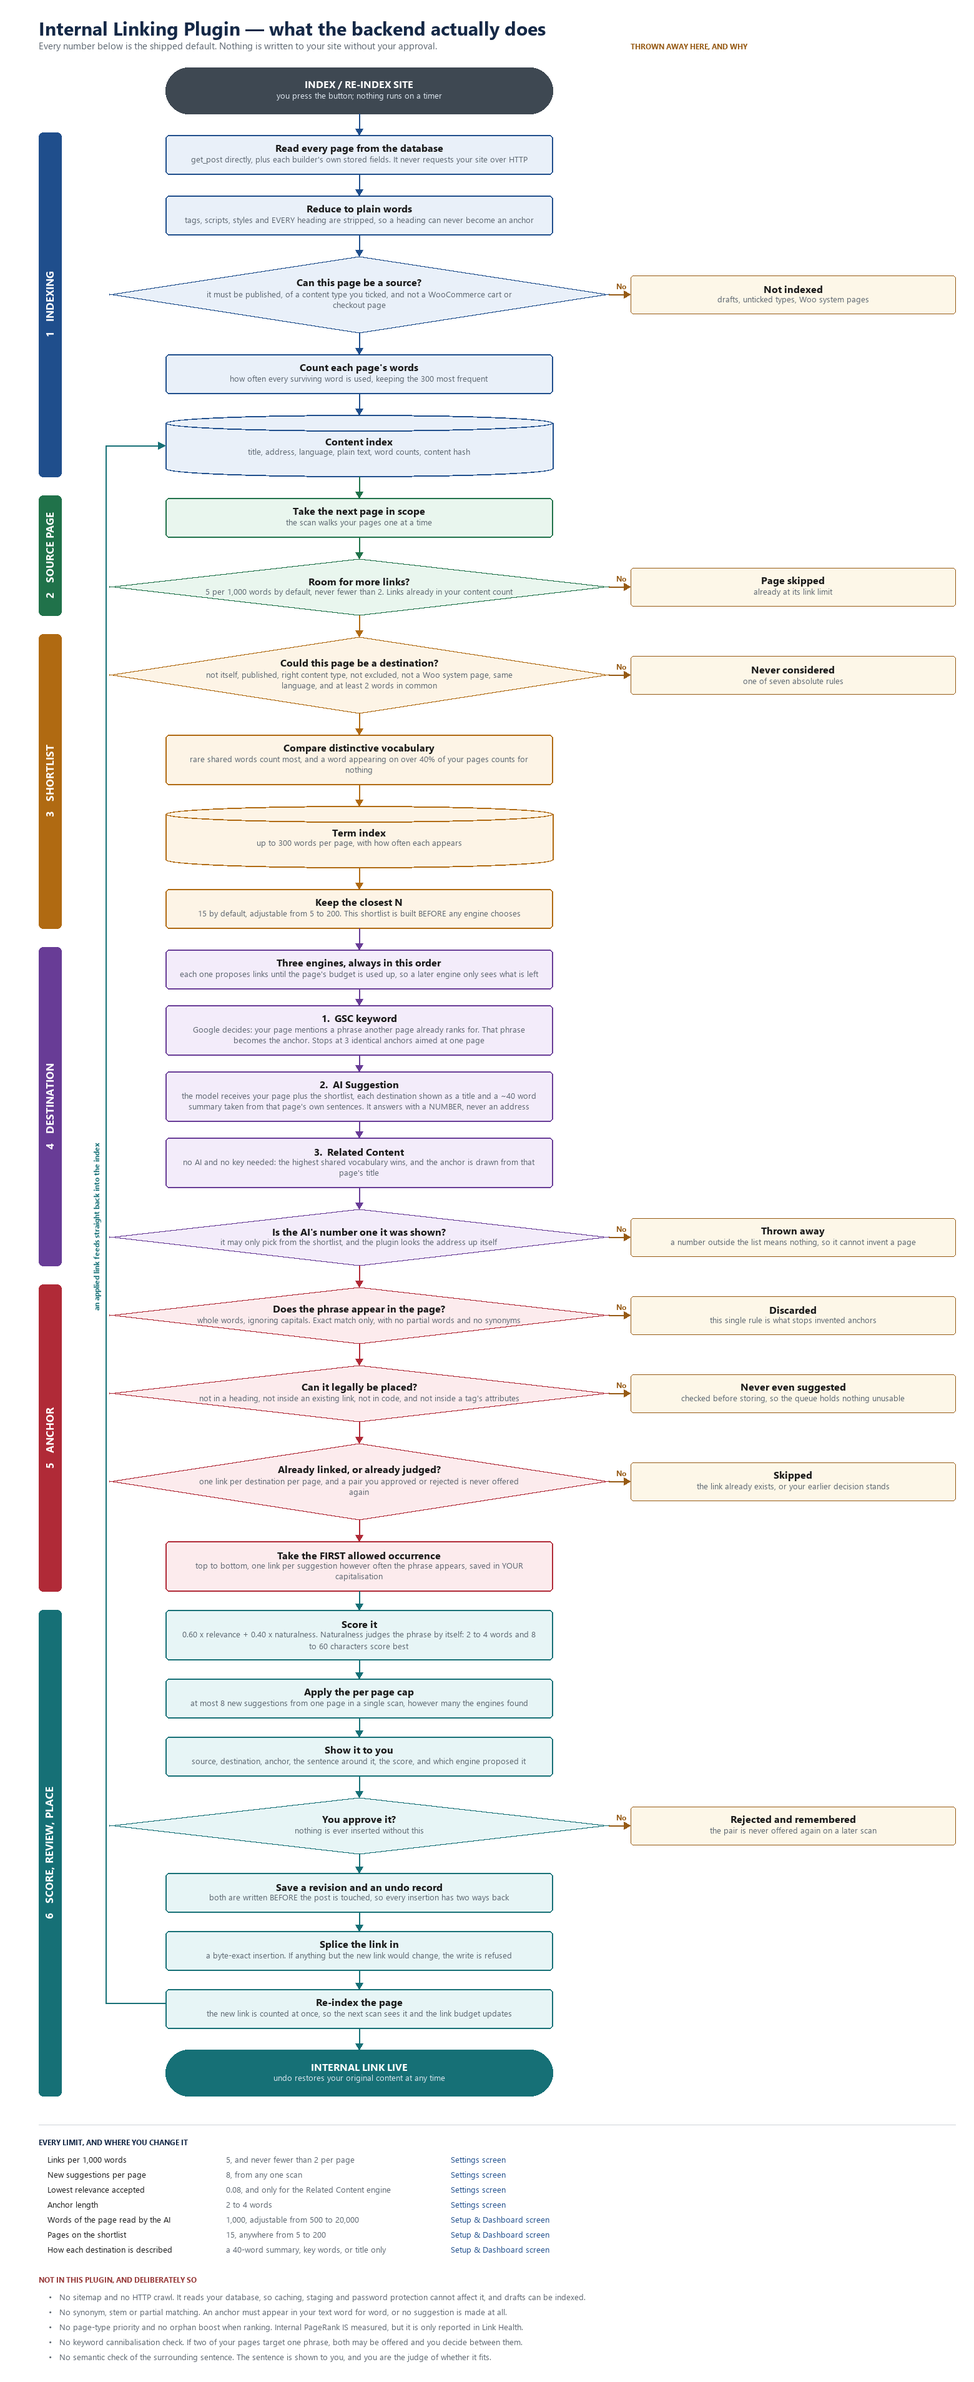
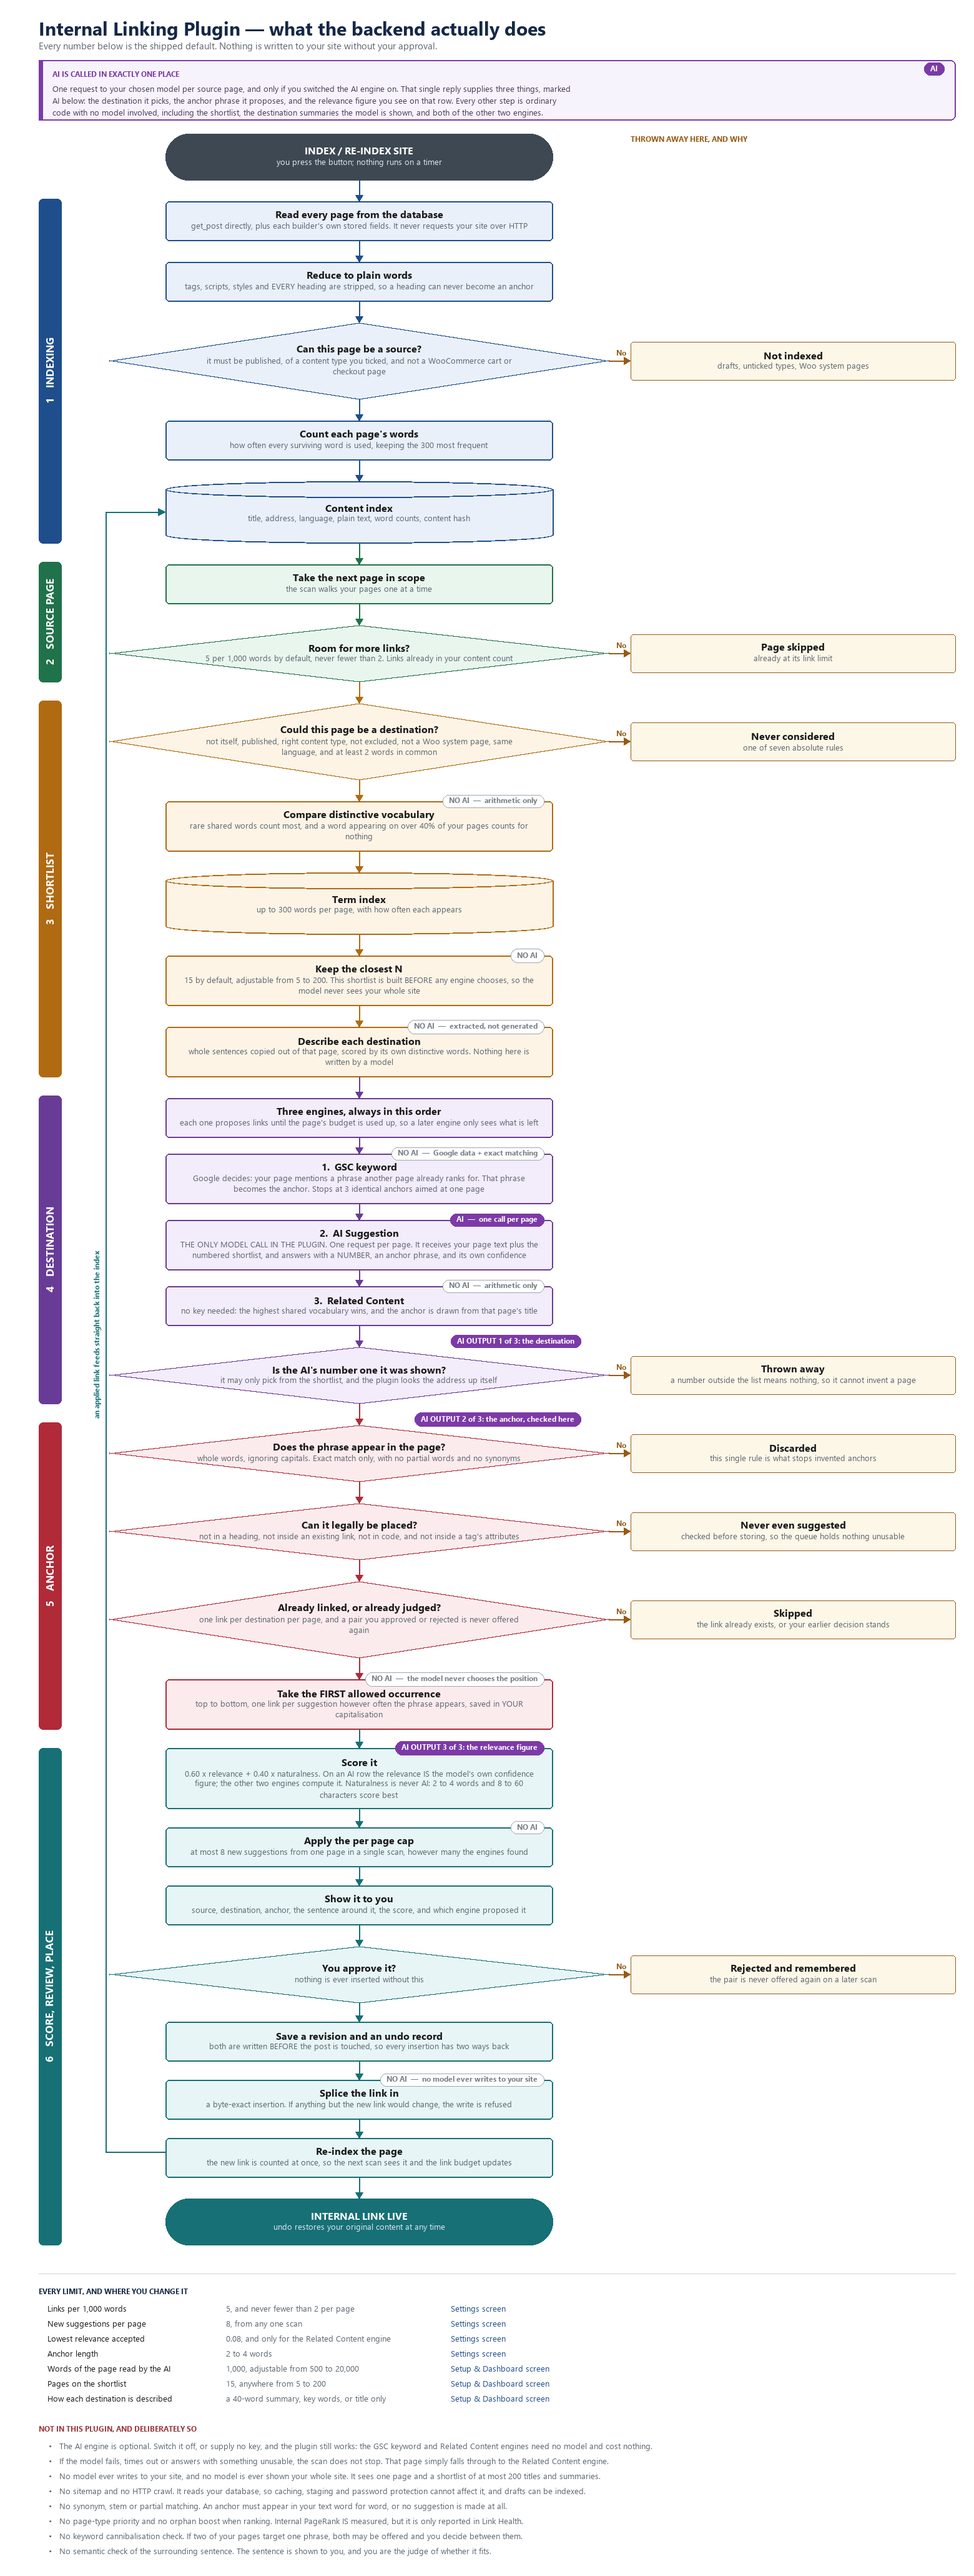
Mark every step of the flowchart with whether AI is involved
The chart showed AI at one node, which left the reader guessing whether
the shortlist, the summaries or the placement were also model-driven.

An audit of the call sites settles it: Gateway::chat is invoked from
exactly one place, LlmSuggester.php:118, once per source page. The
embeddings plane was removed in 0.14.0 and nothing replaced it, so that
single call is the only outbound model request the plugin ever makes.

That one reply, however, lands at three separate points, and two of them
were invisible on the chart:

  1. the destination      - the candidate number it returns
  2. the anchor phrase    - checked verbatim against the body
  3. the relevance figure - on an AI row this IS the model's own
                            self-reported confidence, not a computed
                            similarity (SuggestionEngine.php:161)

All three are now badged AI. The steps people assume are AI but are not
are badged NO AI: the vocabulary comparison, the shortlist, the
destination summaries (extracted from the page's own sentences, never
generated), the GSC and Related Content engines, the choice of where in
the page the link goes, and the write itself.

Adds a header callout stating the one-call fact up front, a node for the
summary step that was previously buried in the AI engine's description,
and footer notes that the AI engine is optional and degrades to the free
engine when the model fails.

diff --git a/tools/make-flowchart.py b/tools/make-flowchart.py
@@ -71,7 +71,24 @@ def draw_text_block(title, desc, cx, cy, maxw, ink=INK, sub=GREY):
         centre(ln, f_d, cx, y + 28 + i * 17, sub)
 
 
-def node(y, title, desc, pal, shape="rect"):
+AI_PUR = (124, 58, 167)
+
+
+def badge(x_right, y_edge, text, kind):
+    """Ribbon straddling a node's top border. kind: 'ai' or 'no'."""
+    h, w = 21, tw(text, f_lbl) + 20
+    x0 = x_right - w
+    if kind == "ai":
+        d.rounded_rectangle([x0, y_edge - h / 2, x_right, y_edge + h / 2],
+                            radius=h / 2, fill=AI_PUR, outline=AI_PUR, width=1)
+        centre(text, f_lbl, (x0 + x_right) / 2, y_edge, WHITE)
+    else:
+        d.rounded_rectangle([x0, y_edge - h / 2, x_right, y_edge + h / 2],
+                            radius=h / 2, fill=WHITE, outline=(158, 166, 174), width=1)
+        centre(text, f_lbl, (x0 + x_right) / 2, y_edge, (118, 126, 134))
+
+
+def node(y, title, desc, pal, shape="rect", bdg=None):
     """Draw a spine node. Returns (top, bottom, right_edge)."""
     dark, light = pal
     if shape == "diamond":
@@ -85,6 +102,8 @@ def node(y, title, desc, pal, shape="rect"):
         d.polygon([(CX, y), (x1, mid), (CX, y + h), (x0, mid)], fill=light)
         d.line([(CX, y), (x1, mid), (CX, y + h), (x0, mid), (CX, y)], fill=dark, width=2)
         draw_text_block(title, desc, CX, mid, 520)
+        if bdg:
+            badge(CX + 355, y - 9, bdg[0], bdg[1])
         return y, y + h, x1
     if shape == "oval":
         h = 74
@@ -108,6 +127,8 @@ def node(y, title, desc, pal, shape="rect"):
     h = body + 26
     d.rounded_rectangle([LEFT, y, RIGHT, y + h], radius=6, fill=light, outline=dark, width=2)
     draw_text_block(title, desc, CX, y + h / 2, RIGHT - LEFT - 40)
+    if bdg:
+        badge(RIGHT - 14, y, bdg[0], bdg[1])
     return y, y + h, RIGHT
 
 
@@ -143,9 +164,22 @@ d.text((BAND, 24), "Internal Linking Plugin \u2014 what the backend actually doe
        font=f_h1, fill=(20, 40, 70))
 d.text((BAND, 62), "Every number below is the shipped default. Nothing is written to your site without your approval.",
        font=f_sub, fill=GREY)
-d.text((SKX0, 66), "THROWN AWAY HERE, AND WHY", font=f_lbl, fill=SKIP[0])
 
-y = 108
+# Callout: where AI is, and is not, used.
+cy0 = 96
+d.rounded_rectangle([BAND, cy0, SKX1, cy0 + 96], radius=8, fill=(247, 243, 252), outline=AI_PUR, width=2)
+d.rectangle([BAND, cy0, BAND + 6, cy0 + 96], fill=AI_PUR)
+d.text((BAND + 22, cy0 + 14), "AI IS CALLED IN EXACTLY ONE PLACE", font=f_lbl, fill=AI_PUR)
+for i, ln in enumerate([
+    "One request to your chosen model per source page, and only if you switched the AI engine on. That single reply supplies three things, marked",
+    "AI below: the destination it picks, the anchor phrase it proposes, and the relevance figure you see on that row. Every other step is ordinary",
+    "code with no model involved, including the shortlist, the destination summaries the model is shown, and both of the other two engines.",
+]):
+    d.text((BAND + 22, cy0 + 36 + i * 19), ln, font=f_note, fill=(70, 60, 90))
+badge(SKX1 - 18, cy0 + 14, "AI", "ai")
+d.text((SKX0, cy0 + 118), "THROWN AWAY HERE, AND WHY", font=f_lbl, fill=SKIP[0])
+
+y = cy0 + 118
 _, prev, _ = node(y, "INDEX / RE-INDEX SITE", "you press the button; nothing runs on a timer", NEUT, "oval")
 
 # ---------------- 1  INDEXING ----------------
@@ -184,14 +218,18 @@ stage(s_top, prev, 2, "SOURCE PAGE", S2)
 s_top = prev + 30
 steps = [
     ("Could this page be a destination?", "not itself, published, right content type, not excluded, not a Woo system page, same language, and at least 2 words in common", "diamond",
-     ("Never considered", "one of seven absolute rules")),
-    ("Compare distinctive vocabulary", "rare shared words count most, and a word appearing on over 40% of your pages counts for nothing", "rect", None),
-    ("Term index", "up to 300 words per page, with how often each appears", "db", None),
-    ("Keep the closest N", "15 by default, adjustable from 5 to 200. This shortlist is built BEFORE any engine chooses", "rect", None),
+     ("Never considered", "one of seven absolute rules"), None),
+    ("Compare distinctive vocabulary", "rare shared words count most, and a word appearing on over 40% of your pages counts for nothing", "rect", None,
+     ("NO AI  —  arithmetic only", "no")),
+    ("Term index", "up to 300 words per page, with how often each appears", "db", None, None),
+    ("Keep the closest N", "15 by default, adjustable from 5 to 200. This shortlist is built BEFORE any engine chooses, so the model never sees your whole site", "rect", None,
+     ("NO AI", "no")),
+    ("Describe each destination", "whole sentences copied out of that page, scored by its own distinctive words. Nothing here is written by a model", "rect", None,
+     ("NO AI  —  extracted, not generated", "no")),
 ]
-for title, desc, shape, sk in steps:
+for title, desc, shape, sk, bd in steps:
     arrow(prev, prev + 34, S3)
-    t, b, xr = node(prev + 34, title, desc, S3, shape)
+    t, b, xr = node(prev + 34, title, desc, S3, shape, bd)
     if sk:
         skip((t + b) / 2, xr, sk[0], sk[1])
     prev = b
@@ -202,16 +240,20 @@ s_top = prev + 30
 arrow(prev, prev + 34, S4)
 t, prev, _ = node(prev + 34, "Three engines, always in this order",
                   "each one proposes links until the page's budget is used up, so a later engine only sees what is left", S4)
-for title, desc in [
-    ("1.  GSC keyword", "Google decides: your page mentions a phrase another page already ranks for. That phrase becomes the anchor. Stops at 3 identical anchors aimed at one page"),
-    ("2.  AI Suggestion", "the model receives your page plus the shortlist, each destination shown as a title and a ~40 word summary taken from that page's own sentences. It answers with a NUMBER, never an address"),
-    ("3.  Related Content", "no AI and no key needed: the highest shared vocabulary wins, and the anchor is drawn from that page's title"),
+for title, desc, bd in [
+    ("1.  GSC keyword", "Google decides: your page mentions a phrase another page already ranks for. That phrase becomes the anchor. Stops at 3 identical anchors aimed at one page",
+     ("NO AI  —  Google data + exact matching", "no")),
+    ("2.  AI Suggestion", "THE ONLY MODEL CALL IN THE PLUGIN. One request per page. It receives your page text plus the numbered shortlist, and answers with a NUMBER, an anchor phrase, and its own confidence",
+     ("AI  —  one call per page", "ai")),
+    ("3.  Related Content", "no key needed: the highest shared vocabulary wins, and the anchor is drawn from that page's title",
+     ("NO AI  —  arithmetic only", "no")),
 ]:
     arrow(prev, prev + 26, S4)
-    t, prev, _ = node(prev + 26, title, desc, S4)
+    t, prev, _ = node(prev + 26, title, desc, S4, "rect", bd)
 arrow(prev, prev + 34, S4)
 t, b, xr = node(prev + 34, "Is the AI's number one it was shown?",
-                "it may only pick from the shortlist, and the plugin looks the address up itself", S4, "diamond")
+                "it may only pick from the shortlist, and the plugin looks the address up itself", S4, "diamond",
+                ("AI OUTPUT 1 of 3: the destination", "ai"))
 skip((t + b) / 2, xr, "Thrown away", "a number outside the list means nothing, so it cannot invent a page")
 prev = b
 stage(s_top, prev, 4, "DESTINATION", S4)
@@ -220,16 +262,18 @@ stage(s_top, prev, 4, "DESTINATION", S4)
 s_top = prev + 30
 steps = [
     ("Does the phrase appear in the page?", "whole words, ignoring capitals. Exact match only, with no partial words and no synonyms", "diamond",
-     ("Discarded", "this single rule is what stops invented anchors")),
+     ("Discarded", "this single rule is what stops invented anchors"),
+     ("AI OUTPUT 2 of 3: the anchor, checked here", "ai")),
     ("Can it legally be placed?", "not in a heading, not inside an existing link, not in code, and not inside a tag's attributes", "diamond",
-     ("Never even suggested", "checked before storing, so the queue holds nothing unusable")),
+     ("Never even suggested", "checked before storing, so the queue holds nothing unusable"), None),
     ("Already linked, or already judged?", "one link per destination per page, and a pair you approved or rejected is never offered again", "diamond",
-     ("Skipped", "the link already exists, or your earlier decision stands")),
-    ("Take the FIRST allowed occurrence", "top to bottom, one link per suggestion however often the phrase appears, saved in YOUR capitalisation", "rect", None),
+     ("Skipped", "the link already exists, or your earlier decision stands"), None),
+    ("Take the FIRST allowed occurrence", "top to bottom, one link per suggestion however often the phrase appears, saved in YOUR capitalisation", "rect", None,
+     ("NO AI  —  the model never chooses the position", "no")),
 ]
-for title, desc, shape, sk in steps:
+for title, desc, shape, sk, bd in steps:
     arrow(prev, prev + 34, S5)
-    t, b, xr = node(prev + 34, title, desc, S5, shape)
+    t, b, xr = node(prev + 34, title, desc, S5, shape, bd)
     if sk:
         skip((t + b) / 2, xr, sk[0], sk[1])
     prev = b
@@ -237,24 +281,26 @@ stage(s_top, prev, 5, "ANCHOR", S5)
 
 # ---------------- 6  SCORE, REVIEW, PLACE ----------------
 s_top = prev + 30
-for title, desc in [
-    ("Score it", "0.60 x relevance + 0.40 x naturalness. Naturalness judges the phrase by itself: 2 to 4 words and 8 to 60 characters score best"),
-    ("Apply the per page cap", "at most 8 new suggestions from one page in a single scan, however many the engines found"),
-    ("Show it to you", "source, destination, anchor, the sentence around it, the score, and which engine proposed it"),
+for title, desc, bd in [
+    ("Score it", "0.60 x relevance + 0.40 x naturalness. On an AI row the relevance IS the model's own confidence figure; the other two engines compute it. Naturalness is never AI: 2 to 4 words and 8 to 60 characters score best",
+     ("AI OUTPUT 3 of 3: the relevance figure", "ai")),
+    ("Apply the per page cap", "at most 8 new suggestions from one page in a single scan, however many the engines found", ("NO AI", "no")),
+    ("Show it to you", "source, destination, anchor, the sentence around it, the score, and which engine proposed it", None),
 ]:
     arrow(prev, prev + 30, S6)
-    t, prev, _ = node(prev + 30, title, desc, S6)
+    t, prev, _ = node(prev + 30, title, desc, S6, "rect", bd)
 arrow(prev, prev + 34, S6)
 t, b, xr = node(prev + 34, "You approve it?", "nothing is ever inserted without this", S6, "diamond")
 skip((t + b) / 2, xr, "Rejected and remembered", "the pair is never offered again on a later scan")
 prev = b
-for title, desc in [
-    ("Save a revision and an undo record", "both are written BEFORE the post is touched, so every insertion has two ways back"),
-    ("Splice the link in", "a byte-exact insertion. If anything but the new link would change, the write is refused"),
-    ("Re-index the page", "the new link is counted at once, so the next scan sees it and the link budget updates"),
+for title, desc, bd in [
+    ("Save a revision and an undo record", "both are written BEFORE the post is touched, so every insertion has two ways back", None),
+    ("Splice the link in", "a byte-exact insertion. If anything but the new link would change, the write is refused",
+     ("NO AI  —  no model ever writes to your site", "no")),
+    ("Re-index the page", "the new link is counted at once, so the next scan sees it and the link budget updates", None),
 ]:
     arrow(prev, prev + 30, S6)
-    t, prev, _ = node(prev + 30, title, desc, S6)
+    t, prev, _ = node(prev + 30, title, desc, S6, "rect", bd)
 reindex_y = prev - 40
 arrow(prev, prev + 34, S6)
 t, b, _ = node(prev + 34, "INTERNAL LINK LIVE", "undo restores your original content at any time", S6, "oval")
@@ -298,6 +344,9 @@ tbl_bottom = fy + 46 + len(limits) * 24
 ny = tbl_bottom + 26
 d.text((BAND, ny), "NOT IN THIS PLUGIN, AND DELIBERATELY SO", font=f_lbl, fill=(150, 55, 55))
 notes = [
+    "The AI engine is optional. Switch it off, or supply no key, and the plugin still works: the GSC keyword and Related Content engines need no model and cost nothing.",
+    "If the model fails, times out or answers with something unusable, the scan does not stop. That page simply falls through to the Related Content engine.",
+    "No model ever writes to your site, and no model is ever shown your whole site. It sees one page and a shortlist of at most 200 titles and summaries.",
     "No sitemap and no HTTP crawl. It reads your database, so caching, staging and password protection cannot affect it, and drafts can be indexed.",
     "No synonym, stem or partial matching. An anchor must appear in your text word for word, or no suggestion is made at all.",
     "No page-type priority and no orphan boost when ranking. Internal PageRank IS measured, but it is only reported in Link Health.",
